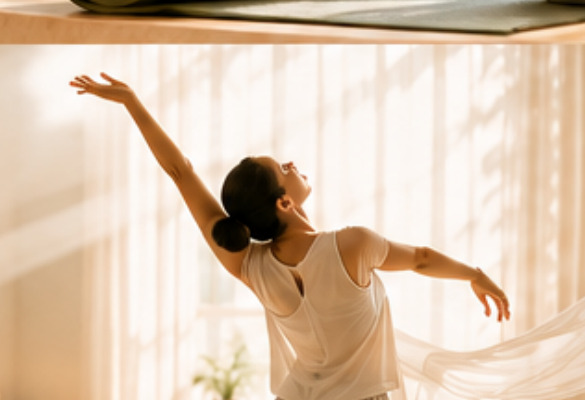
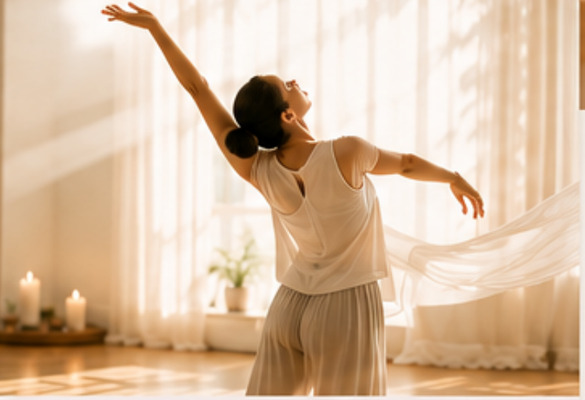
fix: recrop wellness practice images

diff --git a/docs/app/wellness-page-regression.test.ts b/docs/app/wellness-page-regression.test.ts
@@ -22,6 +22,14 @@ const expectedAssets = [
   'silver-club.jpg',
 ]
 
+const expectedImageHashes: Record<string, string> = {
[5 lines of base64/hex data omitted]
+}
+
 const referenceCopy = [
   'XinYi Wellness',
   'Wellness',
@@ -134,6 +142,10 @@ function escapeRegExp(text: string) {
   return text.replace(/[.*+?^${}()|[\]\\]/g, '\\$&')
 }
 
+function readAssetHash(asset: string) {
+  return createHash('sha256').update(readFileSync(resolve(wellnessAssetPath, asset))).digest('hex')
+}
+
 function readJpegSize(asset: string) {
   const source = readFileSync(resolve(wellnessAssetPath, asset))
   const text = source.toString('latin1')
@@ -214,7 +226,10 @@ test('wellness page uses the reference section headings', () => {
 })
 
 test('wellness card images are exact crops from the reference design', () => {
[1 lines of base64/hex data omitted]
+  for (const [asset, hash] of Object.entries(expectedImageHashes)) {
+    assert.equal(readAssetHash(asset), hash, `${asset} must keep the reference crop`)
+  }
+
   assert.deepEqual(readJpegSize('hero-wellness.jpg'), { width: 1300, height: 1040 })
   assert.deepEqual(readJpegSize('yin-yoga.jpg'), { width: 585, height: 400 })
   assert.deepEqual(readJpegSize('flow-yoga.jpg'), { width: 585, height: 400 })
